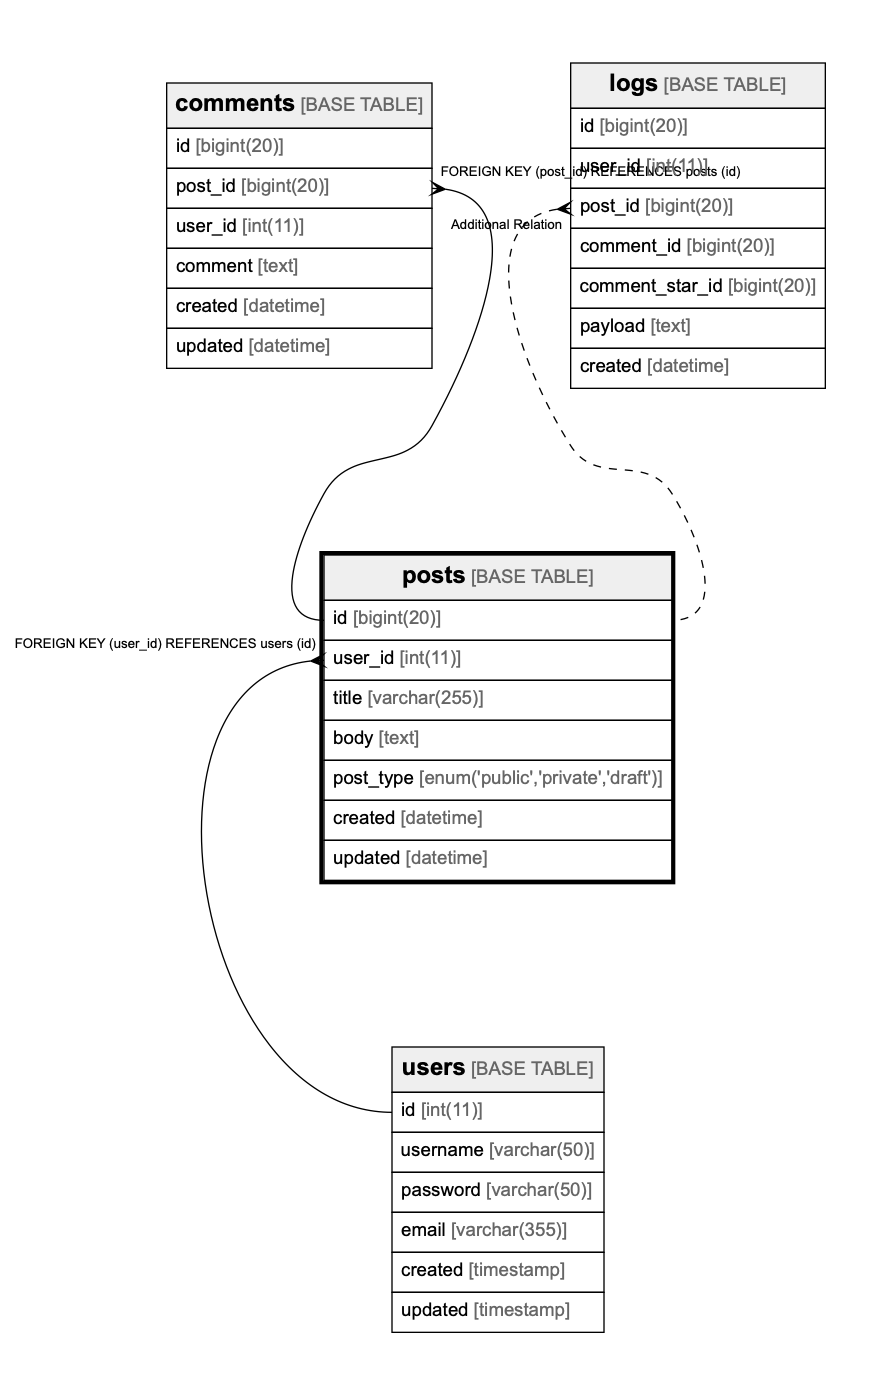
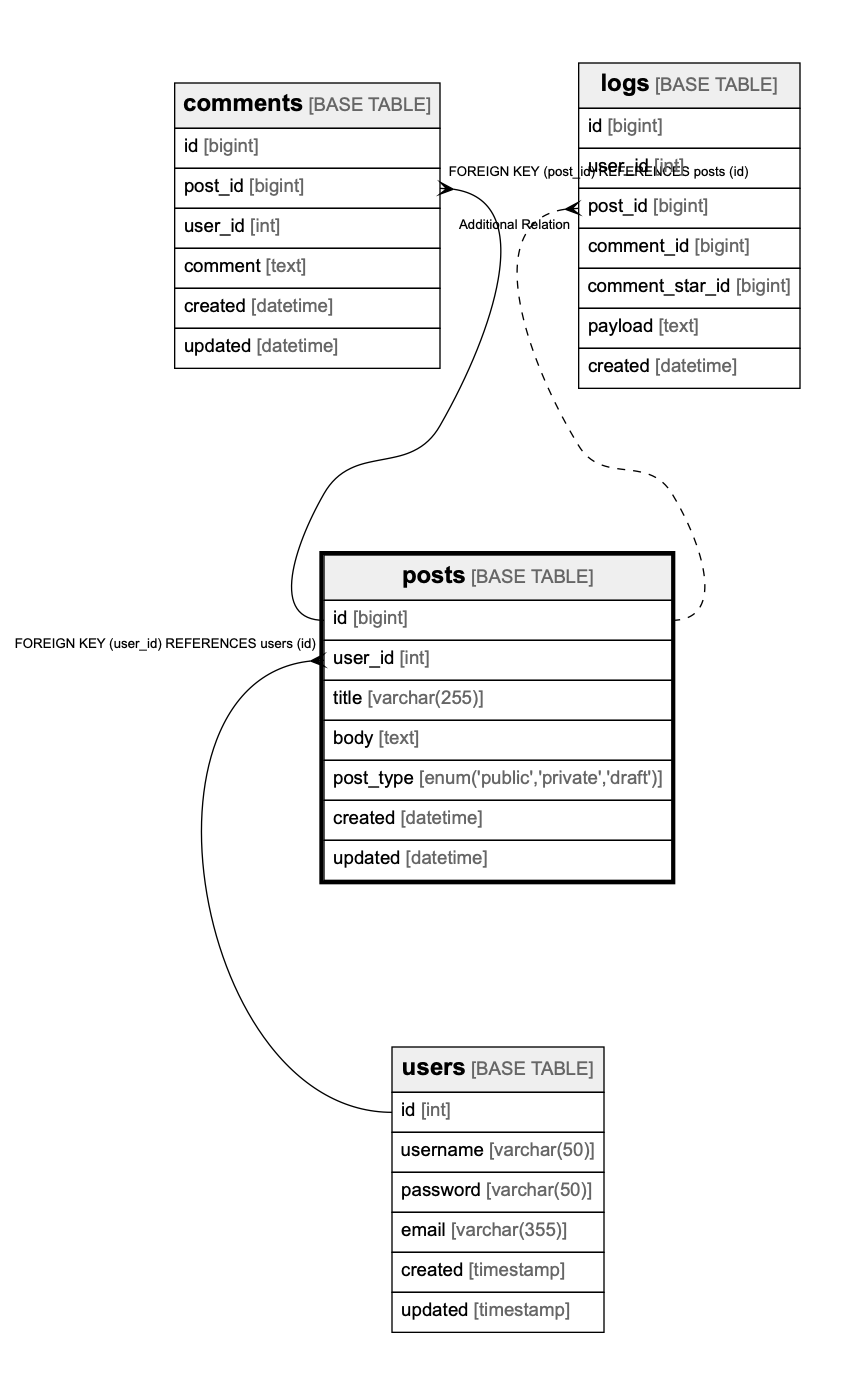
Fix due to update of mysql:8 image

diff --git a/sample/mysql8/logs.md b/sample/mysql8/logs.md
@@ -9,11 +9,11 @@ audit log table
 
 ```sql
 CREATE TABLE `logs` (
-  `id` bigint(20) NOT NULL AUTO_INCREMENT,
-  `user_id` int(11) NOT NULL,
-  `post_id` bigint(20) DEFAULT NULL,
-  `comment_id` bigint(20) DEFAULT NULL,
-  `comment_star_id` bigint(20) DEFAULT NULL,
+  `id` bigint NOT NULL AUTO_INCREMENT,
+  `user_id` int NOT NULL,
+  `post_id` bigint DEFAULT NULL,
+  `comment_id` bigint DEFAULT NULL,
+  `comment_star_id` bigint DEFAULT NULL,
   `payload` text,
   `created` datetime NOT NULL,
   PRIMARY KEY (`id`)
@@ -26,11 +26,11 @@ CREATE TABLE `logs` (
 
 | Name | Type | Default | Nullable | Children | Parents | Comment |
 | ---- | ---- | ------- | -------- | -------- | ------- | ------- |
-| id | bigint(20) |  | false |  |  |  |
-| user_id | int(11) |  | false |  | [users](users.md) |  |
-| post_id | bigint(20) |  | true |  | [posts](posts.md) |  |
-| comment_id | bigint(20) |  | true |  | [comments](comments.md) |  |
-| comment_star_id | bigint(20) |  | true |  | [comment_stars](comment_stars.md) |  |
+| id | bigint |  | false |  |  |  |
+| user_id | int |  | false |  | [users](users.md) |  |
+| post_id | bigint |  | true |  | [posts](posts.md) |  |
+| comment_id | bigint |  | true |  | [comments](comments.md) |  |
+| comment_star_id | bigint |  | true |  | [comment_stars](comment_stars.md) |  |
 | payload | text |  | true |  |  |  |
 | created | datetime |  | false |  |  |  |
 

diff --git a/sample/mysql8/comment_stars.md b/sample/mysql8/comment_stars.md
@@ -7,10 +7,10 @@
 
 ```sql
 CREATE TABLE `comment_stars` (
-  `id` bigint(20) NOT NULL AUTO_INCREMENT,
-  `user_id` int(11) NOT NULL,
-  `comment_post_id` bigint(20) NOT NULL,
-  `comment_user_id` int(11) NOT NULL,
+  `id` bigint NOT NULL AUTO_INCREMENT,
+  `user_id` int NOT NULL,
+  `comment_post_id` bigint NOT NULL,
+  `comment_user_id` int NOT NULL,
   `created` timestamp NOT NULL,
   `updated` timestamp NULL DEFAULT NULL,
   PRIMARY KEY (`id`),
@@ -28,10 +28,10 @@ CREATE TABLE `comment_stars` (
 
 | Name | Type | Default | Nullable | Children | Parents | Comment |
 | ---- | ---- | ------- | -------- | -------- | ------- | ------- |
-| id | bigint(20) |  | false | [logs](logs.md) |  |  |
-| user_id | int(11) |  | false |  |  |  |
-| comment_post_id | bigint(20) |  | false |  | [comments](comments.md) |  |
-| comment_user_id | int(11) |  | false |  | [users](users.md) [comments](comments.md) |  |
+| id | bigint |  | false | [logs](logs.md) |  |  |
+| user_id | int |  | false |  |  |  |
+| comment_post_id | bigint |  | false |  | [comments](comments.md) |  |
+| comment_user_id | int |  | false |  | [users](users.md) [comments](comments.md) |  |
 | created | timestamp |  | false |  |  |  |
 | updated | timestamp |  | true |  |  |  |
 

diff --git a/sample/mysql8/comments.md b/sample/mysql8/comments.md
@@ -12,9 +12,9 @@ comment
 
 ```sql
 CREATE TABLE `comments` (
-  `id` bigint(20) NOT NULL AUTO_INCREMENT,
-  `post_id` bigint(20) NOT NULL,
-  `user_id` int(11) NOT NULL,
+  `id` bigint NOT NULL AUTO_INCREMENT,
+  `post_id` bigint NOT NULL,
+  `user_id` int NOT NULL,
   `comment` text NOT NULL COMMENT 'Comment\nMulti-line\r\ncolumn\rcomment',
   `created` datetime NOT NULL,
   `updated` datetime DEFAULT NULL,
@@ -33,9 +33,9 @@ CREATE TABLE `comments` (
 
 | Name | Type | Default | Nullable | Children | Parents | Comment |
 | ---- | ---- | ------- | -------- | -------- | ------- | ------- |
-| id | bigint(20) |  | false | [logs](logs.md) |  |  |
-| post_id | bigint(20) |  | false | [comment_stars](comment_stars.md) | [posts](posts.md) |  |
-| user_id | int(11) |  | false | [comment_stars](comment_stars.md) | [users](users.md) |  |
+| id | bigint |  | false | [logs](logs.md) |  |  |
+| post_id | bigint |  | false | [comment_stars](comment_stars.md) | [posts](posts.md) |  |
+| user_id | int |  | false | [comment_stars](comment_stars.md) | [users](users.md) |  |
 | comment | text |  | false |  |  | Comment<br>Multi-line<br>column<br>comment |
 | created | datetime |  | false |  |  |  |
 | updated | datetime |  | true |  |  |  |

diff --git a/sample/mysql8/posts.md b/sample/mysql8/posts.md
@@ -9,8 +9,8 @@ Posts table
 
 ```sql
 CREATE TABLE `posts` (
-  `id` bigint(20) NOT NULL AUTO_INCREMENT,
-  `user_id` int(11) NOT NULL,
+  `id` bigint NOT NULL AUTO_INCREMENT,
+  `user_id` int NOT NULL,
   `title` varchar(255) NOT NULL,
   `body` text NOT NULL,
   `post_type` enum('public','private','draft') NOT NULL COMMENT 'public/private/draft',
@@ -29,8 +29,8 @@ CREATE TABLE `posts` (
 
 | Name | Type | Default | Nullable | Children | Parents | Comment |
 | ---- | ---- | ------- | -------- | -------- | ------- | ------- |
-| id | bigint(20) |  | false | [comments](comments.md) [logs](logs.md) |  |  |
-| user_id | int(11) |  | false |  | [users](users.md) |  |
+| id | bigint |  | false | [comments](comments.md) [logs](logs.md) |  |  |
+| user_id | int |  | false |  | [users](users.md) |  |
 | title | varchar(255) |  | false |  |  |  |
 | body | text |  | false |  |  | post body |
 | post_type | enum('public','private','draft') |  | false |  |  | public/private/draft |

diff --git a/sample/mysql8/users.md b/sample/mysql8/users.md
@@ -9,7 +9,7 @@ Users table
 
 ```sql
 CREATE TABLE `users` (
-  `id` int(11) NOT NULL AUTO_INCREMENT,
+  `id` int NOT NULL AUTO_INCREMENT,
   `username` varchar(50) NOT NULL,
   `password` varchar(50) NOT NULL,
   `email` varchar(355) NOT NULL COMMENT 'ex. user@example.com',
@@ -27,7 +27,7 @@ CREATE TABLE `users` (
 
 | Name | Type | Default | Nullable | Children | Parents | Comment |
 | ---- | ---- | ------- | -------- | -------- | ------- | ------- |
-| id | int(11) |  | false | [comment_stars](comment_stars.md) [comments](comments.md) [posts](posts.md) [user_options](user_options.md) [logs](logs.md) |  |  |
+| id | int |  | false | [comment_stars](comment_stars.md) [comments](comments.md) [posts](posts.md) [user_options](user_options.md) [logs](logs.md) |  |  |
 | username | varchar(50) |  | false |  |  |  |
 | password | varchar(50) |  | false |  |  |  |
 | email | varchar(355) |  | false |  |  | ex. user@example.com |

diff --git a/sample/mysql8/user_options.md b/sample/mysql8/user_options.md
@@ -9,7 +9,7 @@ User options table
 
 ```sql
 CREATE TABLE `user_options` (
-  `user_id` int(11) NOT NULL,
+  `user_id` int NOT NULL,
   `show_email` tinyint(1) NOT NULL DEFAULT '0',
   `created` timestamp NOT NULL,
   `updated` timestamp NULL DEFAULT NULL,
@@ -24,7 +24,7 @@ CREATE TABLE `user_options` (
 
 | Name | Type | Default | Nullable | Children | Parents | Comment |
 | ---- | ---- | ------- | -------- | -------- | ------- | ------- |
-| user_id | int(11) |  | false |  | [users](users.md) |  |
+| user_id | int |  | false |  | [users](users.md) |  |
 | show_email | tinyint(1) | 0 | false |  |  |  |
 | created | timestamp |  | false |  |  |  |
 | updated | timestamp |  | true |  |  |  |

diff --git a/sample/mysql8/CamelizeTable.md b/sample/mysql8/CamelizeTable.md
@@ -7,7 +7,7 @@
 
 ```sql
 CREATE TABLE `CamelizeTable` (
-  `id` bigint(20) NOT NULL AUTO_INCREMENT,
+  `id` bigint NOT NULL AUTO_INCREMENT,
   `created` datetime NOT NULL,
   PRIMARY KEY (`id`)
 ) ENGINE=InnoDB DEFAULT CHARSET=utf8mb4 COLLATE=utf8mb4_0900_ai_ci
@@ -19,7 +19,7 @@ CREATE TABLE `CamelizeTable` (
 
 | Name | Type | Default | Nullable | Children | Parents | Comment |
 | ---- | ---- | ------- | -------- | -------- | ------- | ------- |
-| id | bigint(20) |  | false |  |  |  |
+| id | bigint |  | false |  |  |  |
 | created | datetime |  | false |  |  |  |
 
 ## Constraints

diff --git a/sample/mysql8/hyphen-table.md b/sample/mysql8/hyphen-table.md
@@ -7,7 +7,7 @@
 
 ```sql
 CREATE TABLE `hyphen-table` (
-  `id` bigint(20) NOT NULL AUTO_INCREMENT,
+  `id` bigint NOT NULL AUTO_INCREMENT,
   `hyphen-column` text NOT NULL,
   `created` datetime NOT NULL,
   PRIMARY KEY (`id`)
@@ -20,7 +20,7 @@ CREATE TABLE `hyphen-table` (
 
 | Name | Type | Default | Nullable | Children | Parents | Comment |
 | ---- | ---- | ------- | -------- | -------- | ------- | ------- |
-| id | bigint(20) |  | false |  |  |  |
+| id | bigint |  | false |  |  |  |
 | hyphen-column | text |  | false |  |  |  |
 | created | datetime |  | false |  |  |  |
 

diff --git a/sample/mysql8/post_comments.md b/sample/mysql8/post_comments.md
@@ -17,7 +17,7 @@ CREATE VIEW post_comments AS (select `c`.`id` AS `id`,`p`.`title` AS `title`,`u2
 
 | Name | Type | Default | Nullable | Children | Parents | Comment |
 | ---- | ---- | ------- | -------- | -------- | ------- | ------- |
-| id | bigint(20) | 0 | true |  |  | comments.id |
+| id | bigint | 0 | true |  |  | comments.id |
 | title | varchar(255) |  | false |  |  | posts.title |
 | post_user | varchar(50) |  | true |  |  | posts.users.username |
 | comment | text |  | true |  |  | Comment<br>Multi-line<br>column<br>comment |
